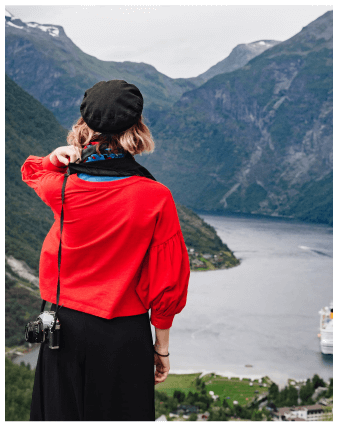
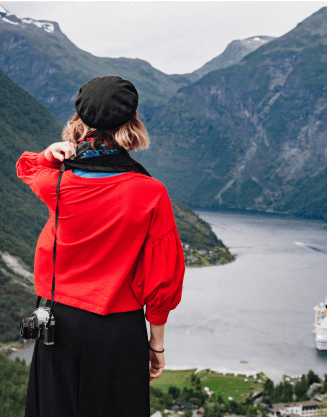
next about sec.

diff --git a/src/pages/About.jsx b/src/pages/About.jsx
@@ -1,13 +1,20 @@
 import PageHeader from "../components/common/PageHeader";
 import aboutBg from "../assets/about-breadcrumb-bg.png";
 import { FaPlay } from 'react-icons/fa';
-import img1 from '../assets/choos-us-thumb-1.png'; // background image
-import img2 from '../assets/choos-us-thumb-2.png'; // foreground image
+import img1 from '../assets/choos-us-thumb-1.png';
+import img2 from '../assets/choos-us-thumb-2.png';
+import icon1 from '../assets/icon-1.png';
+import icon2 from '../assets/icon-2.png';
+import icon3 from '../assets/icon-3.png';
+import icon4 from '../assets/icon-4.png';
+import icon5 from '../assets/icon-5.png';
+import icon6 from '../assets/icon-6.png';
 
 const About = () => {
     return (
         <>
             <WhtSelectUs />
+            <WhyChooseUs />
         </>
     );
 }
@@ -20,34 +27,34 @@ export const WhtSelectUs = () => {
         <>
             <PageHeader title="About" breadcrumb="about" bgImage={aboutBg} />
             <section className="py-20 bg-white">
-                <div className="max-w-7xl mx-auto px-6 grid grid-cols-1 md:grid-cols-2 gap-12 items-center">
+                <div className="max-w-7xl mx-auto px-6 flex flex-wrap md:flex-row  items-center">
 
                     {/* Left Side - Image Collage */}
-                    <div className="relative w-full h-[400px]">
+                    <div className="relative flex justify-center w-full lg:w-1/2 h-[400px] mx-auto">
                         {/* Rotated Image Behind */}
                         <img
                             src={img1}
                             alt="Scenery"
-                            className="absolute top-0 left-0 w-64 h-80 object-cover rounded-lg transform -rotate-3 shadow-md"
+                            className="w-64 h-80 object-cover transform -rotate-3 shadow-md hidden sm:block"
                         />
                         {/* Foreground Image */}
                         <img
                             src={img2}
                             alt="Girl watching"
-                            className="absolute top-10 left-20 w-64 h-80 object-cover rounded-lg z-10 shadow-lg"
+                            className="w-64 h-80 object-cover z-1 bg-white p-1"
                         />
 
                         {/* Watch Button */}
-                        <button className="absolute bottom-4 left-1/2 transform -translate-x-1/2 z-20 bg-red-500 text-white px-5 py-2 rounded-full flex items-center gap-2 shadow-lg">
+                        <button className="absolute bottom-4 left-1/2 transform -translate-x-1/2 cursor-pointer bg-red-500 text-white px-4 py-2 rounded-full flex items-center gap-2 shadow-lg">
                             <FaPlay className="text-sm" />
                             Watch Now
                         </button>
                     </div>
 
                     {/* Right Side - Text Content */}
-                    <div>
-                        <p className="text-red-500 italic mb-2">About us</p>
-                        <h2 className="text-3xl font-bold text-blue-900 mb-4">
+                    <div className="w-full lg:w-1/2">
+                        <p className="text-red-500 font-kaushan text-lg sm:text-xl md:text-xl xl:text-2xl 2xl:text-3xl mb-2">About us</p>
+                        <h2 className="text-2xl sm:text-3xl md:text-3xl xl:text-4xl 2xl:text-5xl font-bold text-blue-900 mb-4">
                             Why Select Us for Your Vaction
                         </h2>
                         <p className="text-gray-600 mb-4">
@@ -81,3 +88,62 @@ export const WhtSelectUs = () => {
         </>
     )
 }
+
+const features = [
+    {
+        icon: icon1,
+        title: 'Cheap Rates',
+        desc: 'Credibly target visionary portals rather than prospective human capital.',
+    },
+    {
+        icon: icon2,
+        title: 'Best Travel Plan',
+        desc: 'Credibly target visionary portals rather than prospective human capital.',
+    },
+    {
+        icon: icon3,
+        title: 'Easy & Quick Booking',
+        desc: 'Credibly target visionary portals rather than prospective human capital.',
+    },
+    {
+        icon: icon4,
+        title: 'Hand-picked Tour',
+        desc: 'Credibly target visionary portals rather than prospective human capital.',
+    },
+    {
+        icon: icon5,
+        title: 'Private Guide',
+        desc: 'Credibly target visionary portals rather than prospective human capital.',
+    },
+    {
+        icon: icon6,
+        title: 'Customer Care 24/7',
+        desc: 'Credibly target visionary portals rather than prospective human capital.',
+    },
+];
+
+export const WhyChooseUs = () => {
+    return (
+        <section className="py-20 bg-[#f8f9fb]">
+            <div className="max-w-7xl mx-auto px-6 text-center">
+                {/* Section Header */}
+                <p className="text-red-500 italic text-lg mb-2">Features</p>
+                <h2 className="text-3xl font-bold text-blue-900 mb-12">Why Choose Us</h2>
+
+                {/* Feature Cards */}
+                <div className="grid grid-cols-1 sm:grid-cols-2 lg:grid-cols-3 gap-8">
+                    {features.map((item, idx) => (
+                        <div
+                            key={idx}
+                            className="bg-white rounded-lg shadow p-6 text-left hover:shadow-lg transition"
+                        >
+                            <img src={item.icon} alt={item.title} className="w-10 h-10 mb-4" />
+                            <h4 className="font-bold text-md text-blue-900 mb-2">{item.title}</h4>
+                            <p className="text-gray-500 text-sm">{item.desc}</p>
+                        </div>
+                    ))}
+                </div>
+            </div>
+        </section>
+    );
+};

diff --git a/src/components/common/PageHeader.jsx b/src/components/common/PageHeader.jsx
@@ -9,7 +9,7 @@ const PageHeader = ({ title, breadcrumb, bgImage }) => {
         >
             <div className="absolute inset-0 bg-black/50"></div>
 
-            <div className="relative text-center text-white z-10">
+            <div className="relative text-center text-white z-1">
                 <h1 className="text-4xl font-bold mb-2">{title}</h1>
                 <p className="text-lg">
                     <Link to='/' className="text-gray-300">Home</Link> / <Link to={`/` + breadcrumb} className="text-red-400 capitalize">{breadcrumb}</Link>
